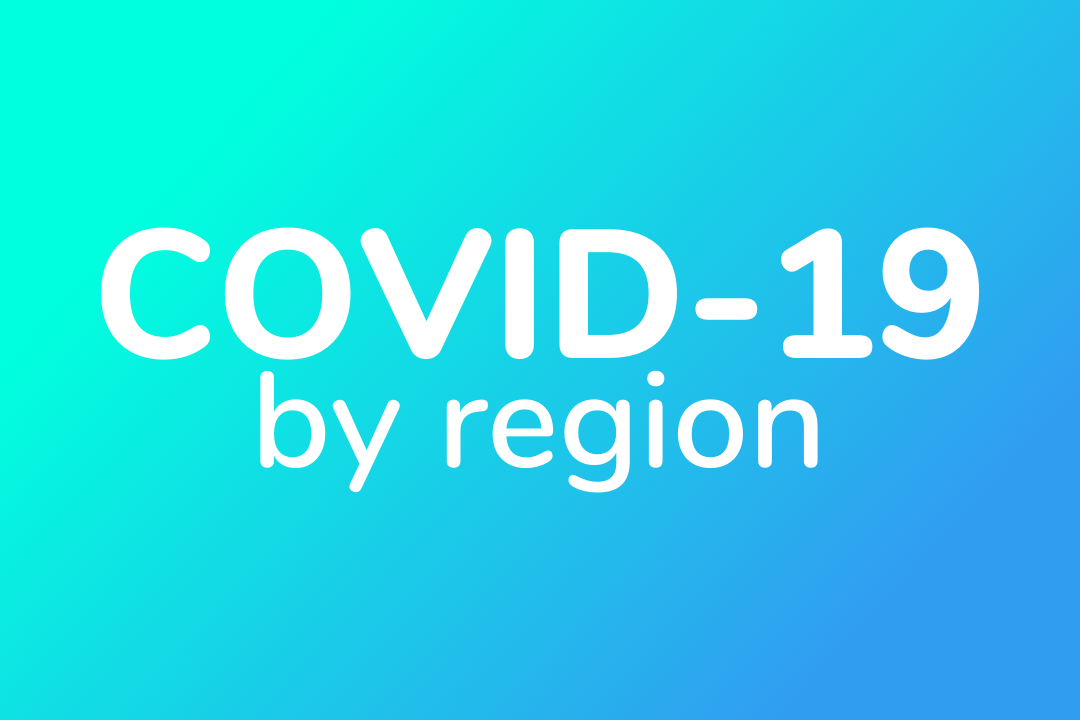
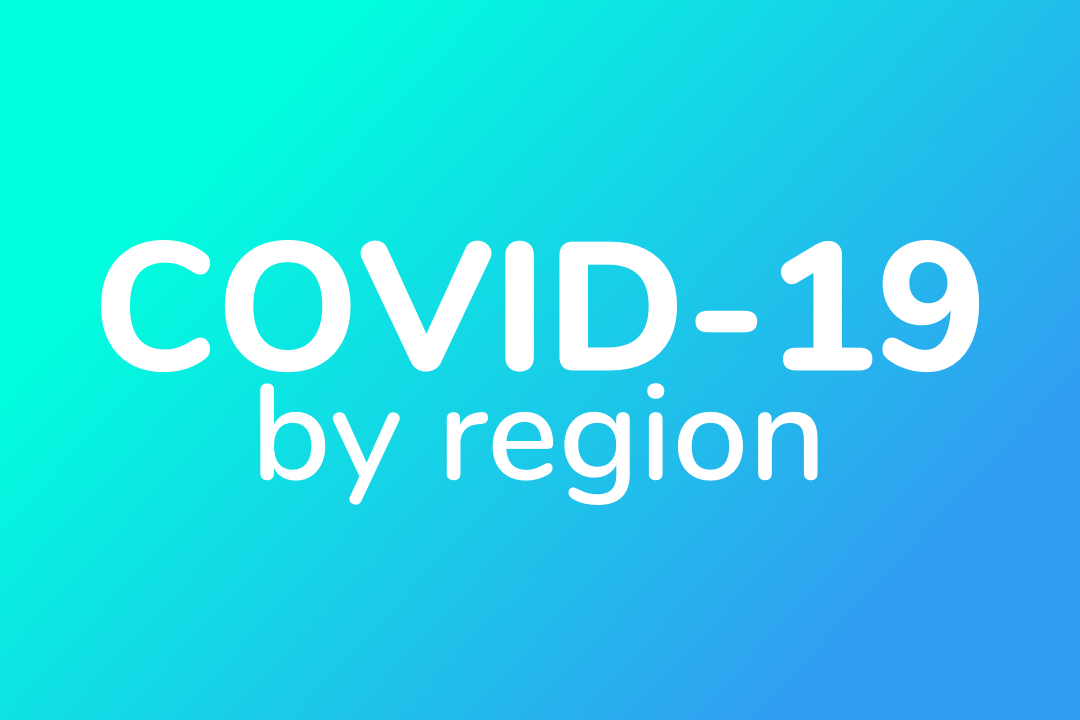
Add some settings, update open graph image, fix Firefox bug

diff --git a/src/GraphSettings.jsx b/src/GraphSettings.jsx
@@ -1,30 +1,117 @@
 // this comment tells babel to convert jsx to calls to a function called jsx instead of React.createElement
 /** @jsx jsx */
-import { css, jsx } from '@emotion/core';
+import { jsx } from '@emotion/core';
 import styled from '@emotion/styled';
 import React, { Component } from 'react';
+import moment from 'moment';
 import Button from 'antd/lib/button';
 import Checkbox from 'antd/lib/checkbox';
+import Modal from 'antd/lib/modal';
+import Form from 'antd/lib/form';
+import DatePicker from 'antd/lib/date-picker';
 
 import 'antd/lib/button/style/index.css';
 import 'antd/lib/checkbox/style/index.css';
+import 'antd/lib/modal/style/index.css';
+import 'antd/lib/form/style/index.css';
+import 'antd/lib/date-picker/style/index.css';
 
 // eslint-disable-next-line
 jsx;
 // eslint-disable-next-line
 React;
 
-export const SeriesRowContainer = styled.div``;
+export const SeriesRowContainer = styled.div`
+  margin-top: 8px;
+`;
+
+export const AlteredForm = styled.div`
+  & .ant-form-item {
+    margin-bottom: 10px;
+  }
+`;
+
+function disabledDate(current) {
+  // Can not select days before 1/1/2020 or after today
+  return (
+    current &&
+    (current < moment('1/1/2020').endOf('day') ||
+      current > moment().endOf('day'))
+  );
+}
 
 class GraphSettings extends Component {
+  constructor(props) {
+    super(props);
+
+    this.state = {
+      // deviceSelected: false,
+      graphSettingsVisible: false,
+    };
+  }
+
+  setAdvancedOverlay = (graphSettingsVisible) => () => {
+    this.setState({ graphSettingsVisible });
+  };
+
   render() {
-    const {} = this.props;
+    const {
+      isLog,
+      flipLog,
+      showJhu,
+      flipJhu,
+      startDate,
+      changeStartDate,
+    } = this.props;
+    const { graphSettingsVisible } = this.state;
 
     return (
       <SeriesRowContainer>
-        <Button type="primary" size="small">
+        <Button
+          type="primary"
+          size="small"
+          onClick={this.setAdvancedOverlay(true)}
+        >
           Advanced Graph Settings
         </Button>
+        <Modal
+          title={`Advanced Graph Settings`}
+          visible={!!graphSettingsVisible}
+          onOk={this.setAdvancedOverlay(false)}
+          onCancel={this.setAdvancedOverlay(false)}
+          footer={null}
+          destroyOnClose
+        >
+          <AlteredForm>
+            <Form layout="horizontal">
+              <Form.Item>
+                <Checkbox
+                  checked={isLog}
+                  disabled={false}
+                  onChange={() => flipLog && flipLog()}
+                >
+                  Logarithim scaled Y axis enabled
+                </Checkbox>
+              </Form.Item>
+              <Form.Item>
+                <Checkbox
+                  checked={showJhu}
+                  disabled={false}
+                  onChange={() => flipJhu && flipJhu()}
+                >
+                  Show JHU data for US
+                </Checkbox>
+              </Form.Item>
+              <Form.Item name="startDate" label="Start Date">
+                <DatePicker
+                  disabledDate={disabledDate}
+                  onChange={changeStartDate}
+                  defaultValue={startDate}
+                />
+              </Form.Item>
+            </Form>
+          </AlteredForm>
+        </Modal>
       </SeriesRowContainer>
     );
   }

diff --git a/src/RegionSelect.js b/src/RegionSelect.js
@@ -77,6 +77,8 @@ class RegionSelect extends Component {
       county: '',
       pinnedKeys: new Map(),
       isLog: false,
+      showJhu: false,
+      startDate: null,
       defaultSeriesInfo: {
         color: {
           index: 1,
@@ -134,6 +136,16 @@ class RegionSelect extends Component {
     }));
   };
 
+  flipJhu = () => {
+    this.setState(({ showJhu }) => ({
+      showJhu: !showJhu,
+    }));
+  };
+
+  changeStartDate = (startDate) => {
+    this.setState({ startDate });
+  };
+
   render() {
     const {
       country,
@@ -142,11 +154,13 @@ class RegionSelect extends Component {
       pinnedKeys,
       defaultSeriesInfo,
       isLog,
+      showJhu,
+      startDate,
     } = this.state;
 
     const stateId = state ? mergeKeys(country, state) : '';
     const seriesKey = mergeKeys(country, state, county);
-    // console.log('seriesKey', seriesKey);
+    console.log('seriesKey', seriesKey);
 
     const newSelectedSeries = !pinnedKeys.has(seriesKey);
     const showSingleColor =
@@ -185,6 +199,14 @@ class RegionSelect extends Component {
       );
     }
 
+    const commonGraphData = {
+      allData,
+      seriesInfo: pinnedGraphInfo,
+      isLog,
+      showSingleColor,
+      startDate,
+    };
+
     return (
       <div>
         <BoxedContainer>
@@ -195,29 +217,24 @@ class RegionSelect extends Component {
                 {isLog ? 'Switch to Linear' : 'Switch to Log'}
               </LogSwitchButton>
               <SingleGraph className="chart-container">
-                <GraphData
-                  fieldName="confirm"
-                  allData={allData}
-                  seriesInfo={pinnedGraphInfo}
-                  isLog={isLog}
-                  showSingleColor={showSingleColor}
-                />
+                <GraphData fieldName="confirm" {...commonGraphData} />
               </SingleGraph>
             </SingleGraphContainer>
             <SingleGraphContainer>
               Deceased
               <SingleGraph className="chart-container">
-                <GraphData
-                  fieldName="dead"
-                  allData={allData}
-                  seriesInfo={pinnedGraphInfo}
-                  isLog={isLog}
-                  showSingleColor={showSingleColor}
-                />
+                <GraphData fieldName="dead" {...commonGraphData} />
               </SingleGraph>
             </SingleGraphContainer>
           </GraphContainer>
-          <GraphSettings />
+          <GraphSettings
+            isLog={isLog}
+            flipLog={this.flipLog}
+            showJhu={showJhu}
+            flipJhu={this.flipJhu}
+            startDate={startDate}
+            changeStartDate={this.changeStartDate}
+          />
           <CurrentDisplayInfo>{viewedSeries}</CurrentDisplayInfo>
         </BoxedContainer>
         <RegionContainer>
@@ -226,6 +243,7 @@ class RegionSelect extends Component {
             selected={country}
             dataKey=""
             showAll
+            showJhu={showJhu}
             onRegionClick={this.clickCountry}
             doubleClick={() => this.pinKeyToggle(seriesKey)}
           />

diff --git a/src/GraphData.jsx b/src/GraphData.jsx
@@ -99,14 +99,27 @@ const getDatasetData = (thisData, xAxis, fieldName) => {
   return sortedData;
 };
 
-const getData = (allData, fieldName, seriesInfo, showSingleColor) => {
+const getData = (
+  allData,
+  fieldName,
+  seriesInfo,
+  showSingleColor,
+  startDate
+) => {
   const cleanedDataKeyed = {};
 
   seriesInfo.forEach(([key, info]) => {
     // Normalize the data with timestamps we can interpret
-    const cleanedData = allData[key].series.map((row) => {
-      return { ...row, t: new Date(row.day) };
+    let cleanedData = allData[key].series.map((row) => {
+      const [month, day, year] = row.day.split('-');
+      return { ...row, t: new Date(year, month - 1, day) };
     });
+
+    if (startDate) {
+      cleanedData = cleanedData.filter(
+        (row) => row.t > startDate.clone().subtract(1, 'days')
+      );
+    }
 
     cleanedDataKeyed[key] = cleanedData;
   });
@@ -152,10 +165,17 @@ export default class GraphData extends PureComponent {
       seriesInfo,
       isLog,
       showSingleColor,
+      startDate,
     } = this.props;
 
-    const data = getData(allData, fieldName, seriesInfo, showSingleColor);
-    // console.log('data', data);
+    const data = getData(
+      allData,
+      fieldName,
+      seriesInfo,
+      showSingleColor,
+      startDate
+    );
+    console.log('data', data);
 
     return <Line data={data} options={getOptions(isLog)} />;
   }

diff --git a/src/RegionColumn.jsx b/src/RegionColumn.jsx
@@ -57,6 +57,7 @@ class RegionSelect extends Component {
       doubleClick,
       selected,
       showAll,
+      showJhu,
     } = this.props;
 
     if (!showAll && dataKey === '') {
@@ -86,6 +87,13 @@ class RegionSelect extends Component {
       return false;
     };
 
+    let filteredRegions = sortedRegions;
+    if (!showJhu) {
+      filteredRegions = sortedRegions.filter(
+        (region) => region.sub !== 'US (JHU)'
+      );
+    }
+
     return (
       <SelectColumn>
         {showAll && (
@@ -101,7 +109,7 @@ class RegionSelect extends Component {
             </CaseNumbers>
           </Region>
         )}
-        {sortedRegions.map((region) => (
+        {filteredRegions.map((region) => (
           <Region
             onClick={onRegionClick(region.sub)}
             onDoubleClick={doubleClick}

diff --git a/src/index.css b/src/index.css
@@ -1,3 +1,5 @@
+@import '~antd/lib/style/index.css';
+
 body {
   margin: 0;
   font-family: -apple-system, BlinkMacSystemFont, 'Segoe UI', 'Roboto', 'Oxygen',
@@ -12,4 +14,9 @@ body {
 code {
   font-family: source-code-pro, Menlo, Monaco, Consolas, 'Courier New',
     monospace;
+}
+
+.ant-row {
+  display: flex;
+  flex-flow: row wrap;
 }

diff --git a/src/SelectedSeries.jsx b/src/SelectedSeries.jsx
@@ -49,7 +49,7 @@ export const ColorSwatch = styled.div`
   width: 10px;
   height: 10px;
   margin: 0px 2px;
-  margin-top: 1px;
+  // margin-top: 1px;
 `;
 export const EmptyText = styled.div`
   margin: ${({ showSingleColor }) => (showSingleColor ? 'auto' : '-6px')} auto;
